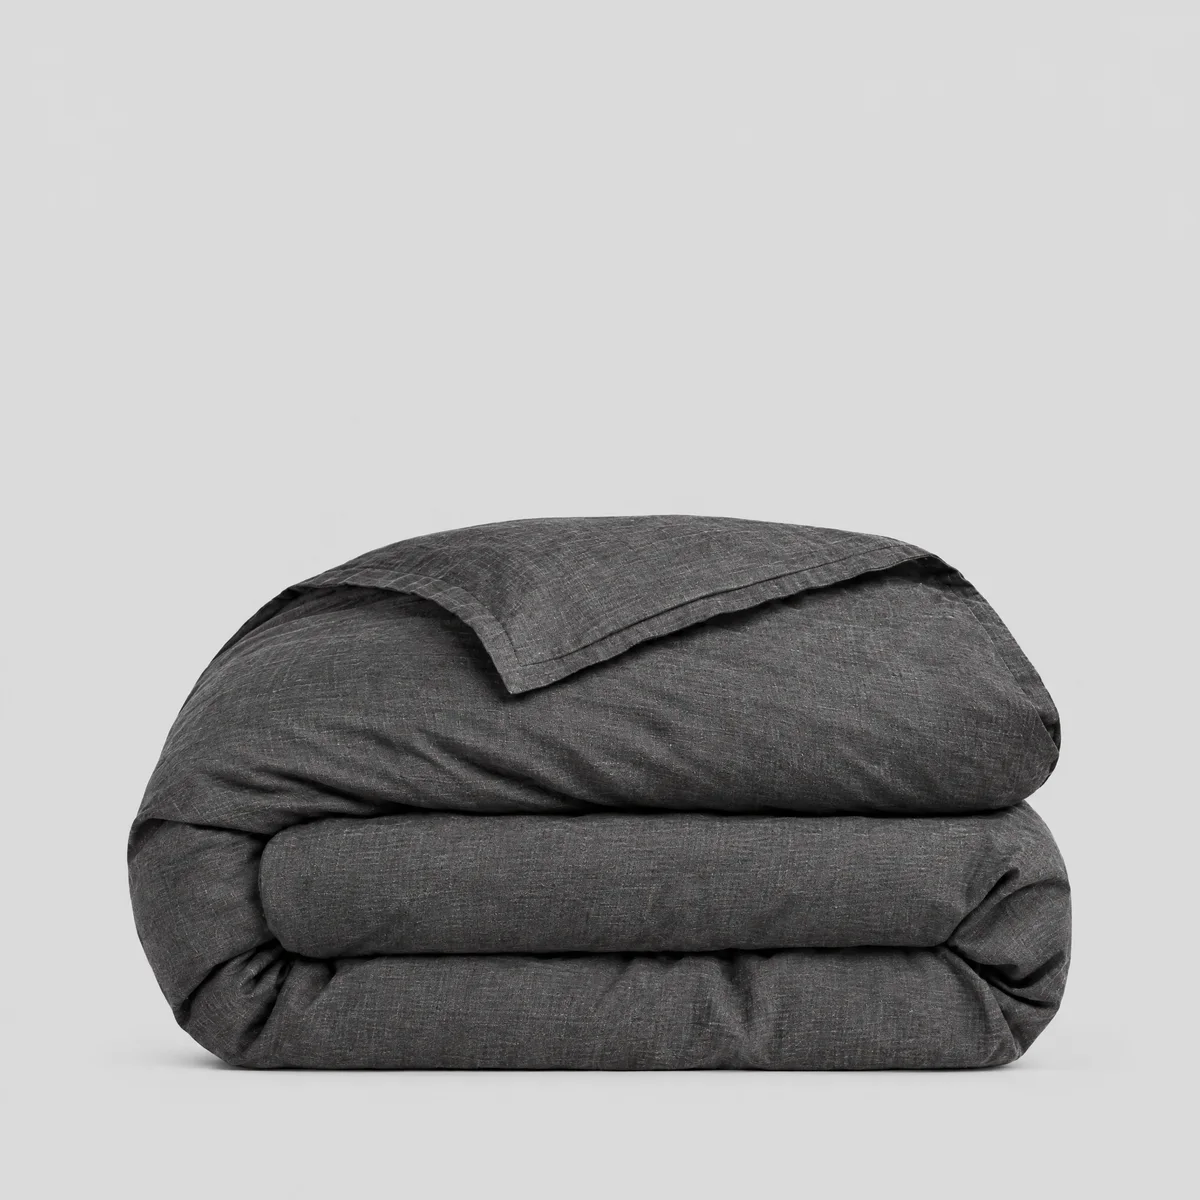
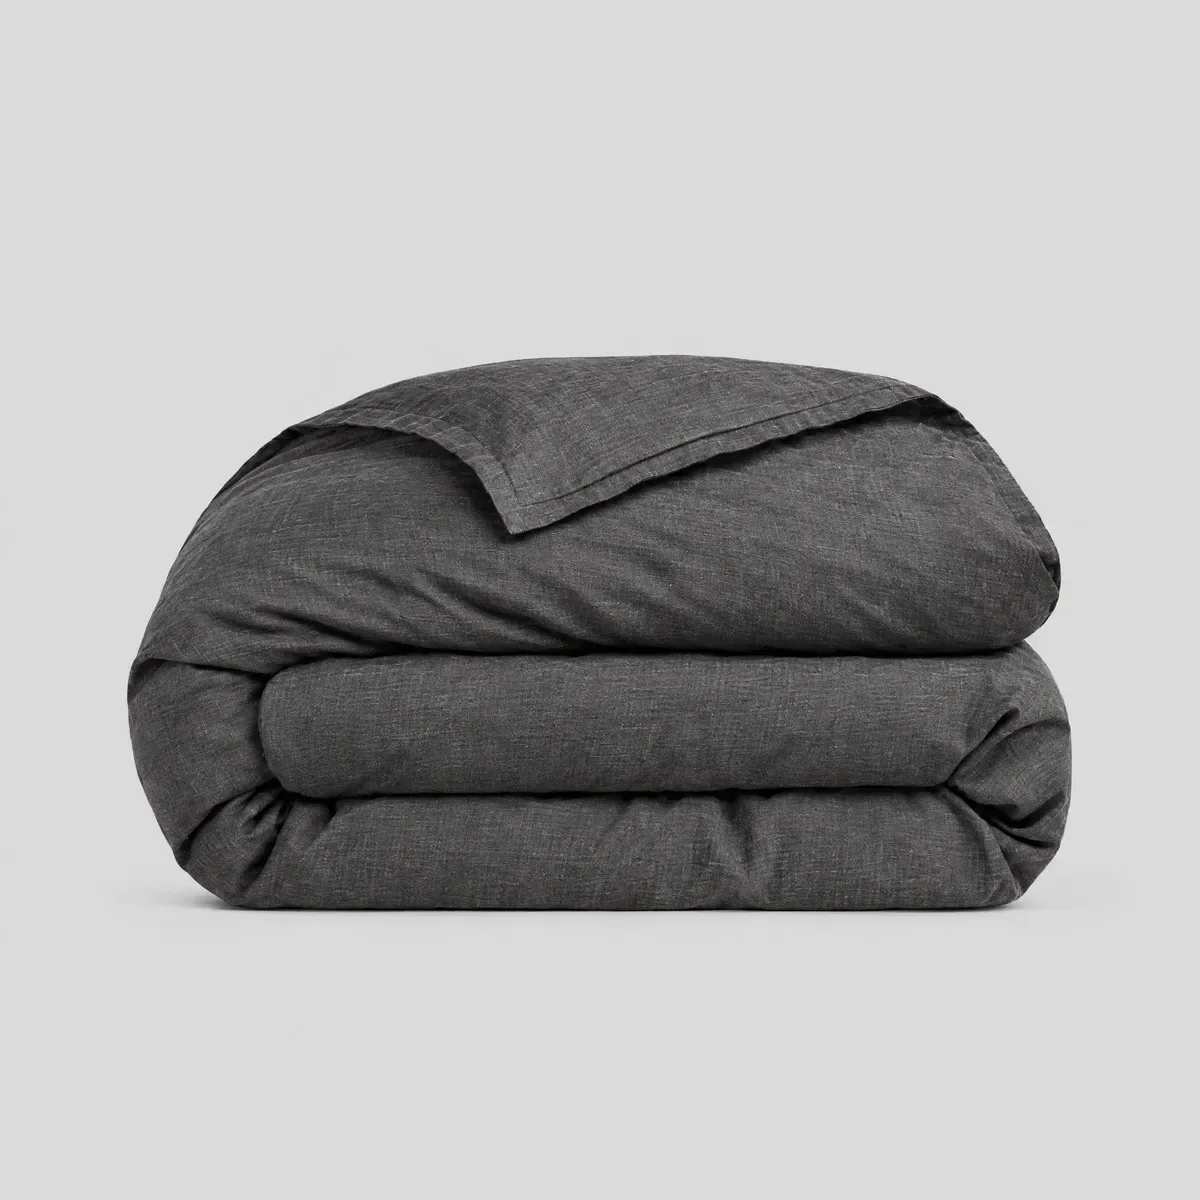
satin(ice silk) 9 个家族改归三件套分类并改标题为 Satin Duvet Cover Set of 3；9 张被套叠放主图滚动拼接垂直居中（2026-10-15）

Changed region(s): [[0.0925, 0.2775, 0.8942, 0.8942]]

diff --git a/src/data/short-titles.ts b/src/data/short-titles.ts
@@ -313,30 +313,30 @@ export const SHORT_TITLES: Record<string, string> = {
   "1688-730512046265-c18": "Woven Fabric Wall Art, Pottery and Plates, 48 x 48cm",
   "1688-730512046265-c19": "Linen Framed Wall Art, Basket Vases, 48 x 48cm",
   "1688-969627065032-c33": "Faux Rabbit Fur Throw Blanket - 180x200cm, Dark Gray",
-  "1688-1061371343572": "Ice Silk Duvet Cover, Milk Tea Brown, 200 x 230cm",
-  "1688-1061371343572-c2": "Ice Silk Duvet Cover, Milk Tea Brown, 180 x 220cm",
-  "1688-1061371343572-c3": "Ice Silk Duvet Cover, Milk Tea Brown, 150 x 200cm",
-  "1688-1061371343572-c4": "Ice Silk Duvet Cover, Champagne Green, 200 x 230cm",
-  "1688-1061371343572-c5": "Ice Silk Duvet Cover, Champagne Green, 180 x 220cm",
-  "1688-1061371343572-c6": "Ice Silk Duvet Cover, Champagne Green, 150 x 200cm",
-  "1688-1061371343572-c7": "Ice Silk Duvet Cover, Camel Grey, 200 x 230cm",
-  "1688-1061371343572-c8": "Ice Silk Duvet Cover, Camel Grey, 180 x 220cm",
-  "1688-1061371343572-c9": "Ice Silk Duvet Cover, Camel Grey, 150 x 200cm",
-  "1688-1061371343572-c10": "Ice Silk Duvet Cover, Milk Tea Beige, 200 x 230cm",
-  "1688-1061371343572-c11": "Ice Silk Duvet Cover, Milk Tea Beige, 180 x 220cm",
-  "1688-1061371343572-c12": "Ice Silk Duvet Cover, Cream White, 200 x 230cm",
-  "1688-1061371343572-c13": "Ice Silk Duvet Cover, Cream White, 180 x 220cm",
-  "1688-1061371343572-c14": "Ice Silk Duvet Cover, Cream White, 150 x 200cm",
-  "1688-1061371343572-c15": "Ice Silk Duvet Cover, Peach Pink, 200 x 230cm",
-  "1688-1061371343572-c16": "Ice Silk Duvet Cover, Peach Pink, 180 x 220cm",
-  "1688-1061371343572-c17": "Ice Silk Duvet Cover, Peach Pink, 150 x 200cm",
-  "1688-1061371343572-c18": "Ice Silk Duvet Cover, Pale Lemon, 200 x 230cm",
-  "1688-1061371343572-c19": "Ice Silk Duvet Cover, Pale Lemon, 180 x 220cm",
-  "1688-1061371343572-c20": "Ice Silk Duvet Cover, Peach Taro Purple, 200 x 230cm",
-  "1688-1061371343572-c21": "Ice Silk Duvet Cover, Peach Taro Purple, 180 x 220cm",
-  "1688-1061371343572-c22": "Ice Silk Duvet Cover, Peach Taro Purple, 150 x 200cm",
-  "1688-1048207560416": "Dual-Tone Ice Silk Duvet Cover, Milkshake White, 180 x 220cm",
-  "1688-1048207560416-c2": "Dual-Tone Ice Silk Duvet Cover, Milkshake White, 150 x 200cm",
+  "1688-1061371343572": "Satin Duvet Cover Set of 3, Milk Tea Brown, 200 x 230cm",
+  "1688-1061371343572-c2": "Satin Duvet Cover Set of 3, Milk Tea Brown, 180 x 220cm",
+  "1688-1061371343572-c3": "Satin Duvet Cover Set of 3, Milk Tea Brown, 150 x 200cm",
+  "1688-1061371343572-c4": "Satin Duvet Cover Set of 3, Champagne Green, 200 x 230cm",
+  "1688-1061371343572-c5": "Satin Duvet Cover Set of 3, Champagne Green, 180 x 220cm",
+  "1688-1061371343572-c6": "Satin Duvet Cover Set of 3, Champagne Green, 150 x 200cm",
+  "1688-1061371343572-c7": "Satin Duvet Cover Set of 3, Camel Grey, 200 x 230cm",
+  "1688-1061371343572-c8": "Satin Duvet Cover Set of 3, Camel Grey, 180 x 220cm",
+  "1688-1061371343572-c9": "Satin Duvet Cover Set of 3, Camel Grey, 150 x 200cm",
+  "1688-1061371343572-c10": "Satin Duvet Cover Set of 3, Milk Tea Beige, 200 x 230cm",
+  "1688-1061371343572-c11": "Satin Duvet Cover Set of 3, Milk Tea Beige, 180 x 220cm",
+  "1688-1061371343572-c12": "Satin Duvet Cover Set of 3, Cream White, 200 x 230cm",
+  "1688-1061371343572-c13": "Satin Duvet Cover Set of 3, Cream White, 180 x 220cm",
+  "1688-1061371343572-c14": "Satin Duvet Cover Set of 3, Cream White, 150 x 200cm",
+  "1688-1061371343572-c15": "Satin Duvet Cover Set of 3, Peach Pink, 200 x 230cm",
+  "1688-1061371343572-c16": "Satin Duvet Cover Set of 3, Peach Pink, 180 x 220cm",
+  "1688-1061371343572-c17": "Satin Duvet Cover Set of 3, Peach Pink, 150 x 200cm",
+  "1688-1061371343572-c18": "Satin Duvet Cover Set of 3, Pale Lemon, 200 x 230cm",
+  "1688-1061371343572-c19": "Satin Duvet Cover Set of 3, Pale Lemon, 180 x 220cm",
+  "1688-1061371343572-c20": "Satin Duvet Cover Set of 3, Peach Taro Purple, 200 x 230cm",
+  "1688-1061371343572-c21": "Satin Duvet Cover Set of 3, Peach Taro Purple, 180 x 220cm",
+  "1688-1061371343572-c22": "Satin Duvet Cover Set of 3, Peach Taro Purple, 150 x 200cm",
+  "1688-1048207560416": "Dual-Tone Satin Duvet Cover Set of 3, Milkshake White, 180 x 220cm",
+  "1688-1048207560416-c2": "Dual-Tone Satin Duvet Cover Set of 3, Milkshake White, 150 x 200cm",
   "1688-1051650740507": "Cotton Lace Trim Duvet Cover, Cherry Pink, 200 x 230cm",
   "1688-1051650740507-c2": "Cotton Lace Trim Duvet Cover, Cherry Pink, 180 x 220cm",
   "1688-1051650740507-c3": "Cotton Lace Trim Duvet Cover, Cherry Pink, 150 x 200cm",

diff --git a/src/data/bedding-families.ts b/src/data/bedding-families.ts
@@ -13,9 +13,9 @@ import type { MakimooProduct } from '@/data/products';
 
 export type SetKind = 'four' | 'three' | 'comforter' | 'duvet';
 
-// 被套单品家族（ice silk 缎面归 Satin 面料子类；2026-10 协作方新品 LINEN3-*/DUVSET-*-DUVET
-// 独立被套单件也归 duvet，见 classifySet）。
-// ice silk 为颜色×尺寸二维家族：family = 同色组（key = 前缀::颜色）；新品独立被套一色一家族。
+// 被套单品家族（LINEN3-*/DUVSET-*-DUVET 独立被套单件归 duvet，见 classifySet）。
+// ice silk 缎面为三件套家族（2026-10-15 用户确认），颜色×尺寸二维：family = 同色组（key = 前缀::颜色）；
+// 新品独立被套一色一家族。
 const DUVET_PREFIXES = ['1688-1048207560416', '1688-1061371343572'];
 
 export const SET_SIZE_ORDER = ['TWIN', 'FULL', 'QUEEN', 'KING'];
@@ -68,7 +68,9 @@ export function classifySet(asin: string): SetKind | null {
   // 1688-916370884976 供应商标题误标 "Comforter Set"——实物带拉链封口，是被套+2枕套的
   // 3 件套（2026-09-26 用户确认，与 8090 工具 set-of-3 标签一致），按 three 分类
   if (a.startsWith('duvset-') || a.startsWith('linen3-') || a.startsWith('1688-916370884976')) return 'three';
-  if (DUVET_PREFIXES.some((p) => a.startsWith(p))) return 'duvet';
+  // ice silk 缎面（Satin）两个前缀家族实为被套+2枕套三件套（2026-10-15 用户确认），归 three；
+  // 家族 key 仍按前缀::颜色（见 familyKeyOf）
+  if (DUVET_PREFIXES.some((p) => a.startsWith(p))) return 'three';
   return null;
 }
 
@@ -182,7 +184,7 @@ export const SET_KIND_PAGE_COPY: Record<SetKind, { heading: string; blurb: strin
   },
   duvet: {
     heading: 'Duvet Covers',
-    blurb: 'Standalone covers in linen, washed cotton-like & satin — slip over your favorite insert.',
+    blurb: 'Standalone covers in linen & washed cotton-like — slip over your favorite insert.',
   },
 };
 

diff --git a/scripts/roll-image.js b/scripts/roll-image.js
@@ -1,0 +1,20 @@
+// 垂直滚动拼接试验：把顶部灰色带切下来拼到底部，让产品在垂直方向更居中（不缩放、不变形）
+// 用法: node scripts/tmp-roll-image.js <in.webp> <out.webp> [shiftPx]
+const sharp = require('sharp');
+
+(async () => {
+  const [inFile, outFile, shiftArg] = process.argv.slice(2);
+  const shift = parseInt(shiftArg || '160', 10);
+  const meta = await sharp(inFile).metadata();
+  const W = meta.width, H = meta.height;
+  const topStrip = await sharp(inFile).extract({ left: 0, top: 0, width: W, height: shift }).toBuffer();
+  const lower = await sharp(inFile).extract({ left: 0, top: shift, width: W, height: H - shift }).toBuffer();
+  await sharp({ create: { width: W, height: H, channels: 3, background: '#ffffff' } })
+    .composite([
+      { input: lower, left: 0, top: 0 },
+      { input: topStrip, left: 0, top: H - shift },
+    ])
+    .webp({ quality: 84 })
+    .toFile(outFile);
+  console.log('rolled', shift, 'px ->', outFile);
+})().catch((e) => { console.error(e); process.exit(1); });
